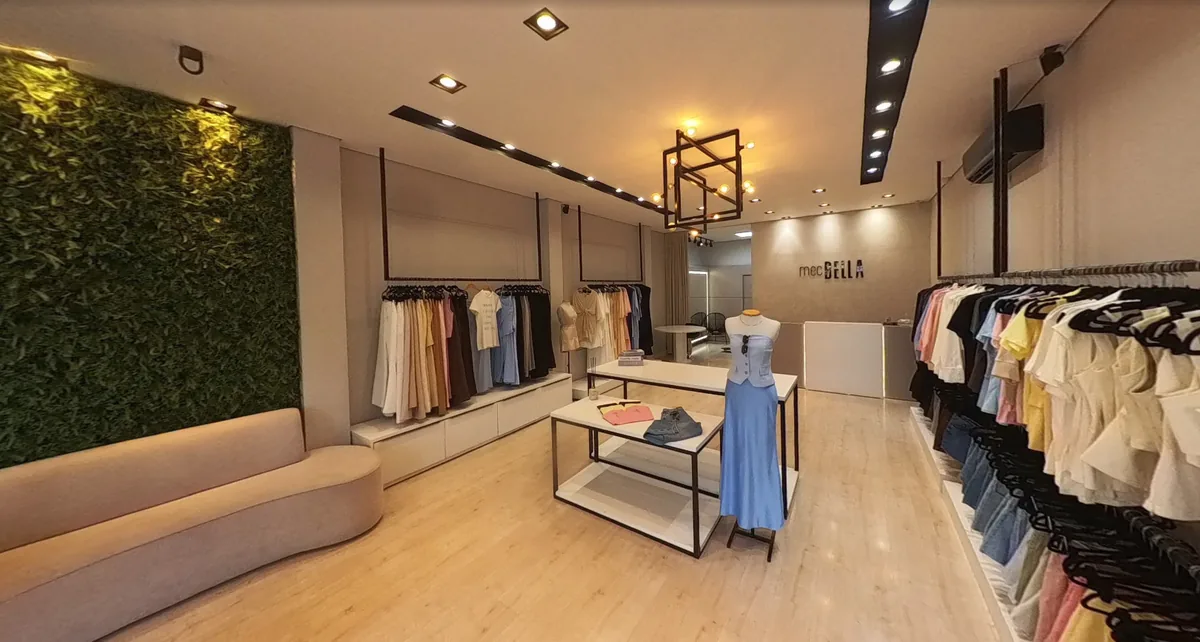
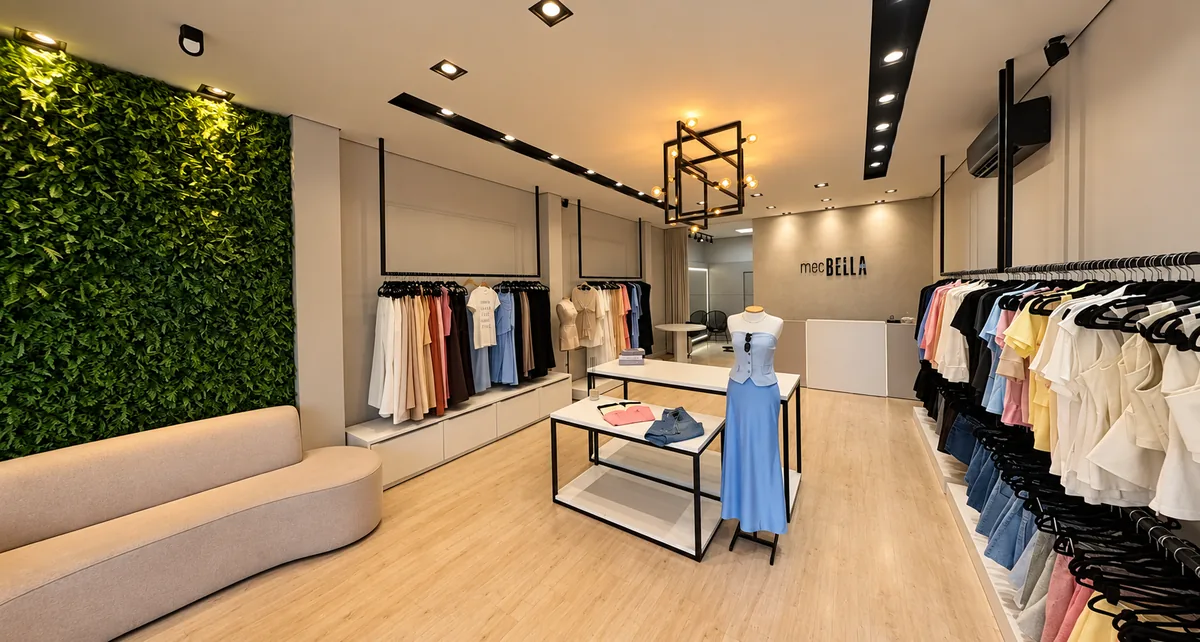
Panorâmica e arara nas versões editadas pelo cliente, em resolução maior

diff --git a/index.html b/index.html
@@ -183,8 +183,8 @@
         <article class="duo__item" data-reveal>
           <figure class="duo__figure">
             <picture>
-              <source type="image/webp" srcset="assets/img/arara-480.webp 480w, assets/img/arara-800.webp 800w, assets/img/arara-835.webp 835w" sizes="(min-width: 1100px) 460px, (min-width: 700px) 46vw, 92vw">
-              <img src="assets/img/arara-835.jpg" alt="Arara com camisa de linho cru, calça jeans, camisa azul-clara e bolsa de palha." width="835" height="557" loading="lazy" decoding="async">
+              <source type="image/webp" srcset="assets/img/arara-480.webp 480w, assets/img/arara-800.webp 800w, assets/img/arara-1200.webp 1200w" sizes="(min-width: 1100px) 460px, (min-width: 700px) 46vw, 92vw">
+              <img src="assets/img/arara-1214.jpg" alt="Arara com camisa de linho cru, calça jeans, camisa azul-clara, bolsa de palha e, embaixo, tops e saia em tons de amarelo e marinho." width="1214" height="1295" loading="lazy" decoding="async">
             </picture>
           </figure>
           <div class="duo__body">

diff --git a/assets/css/styles.css b/assets/css/styles.css
@@ -783,7 +783,7 @@ strong {
   }
 
   .duo__item:nth-child(2) .duo__figure img {
-    object-position: 50% 50%;
+    object-position: 50% 40%;
   }
 
   /* o segundo estilo desce um pouco, para o ritmo de revista */

diff --git a/tools/optimize-images.py b/tools/optimize-images.py
@@ -36,9 +36,10 @@ PHOTOS = {
     "blazer": ("Screenshot 2026-10-02 105840.png", (3, 3, 665, 894)),
     "cafe": ("Screenshot 2026-10-02 110055.png", (3, 3, 664, 889)),
     "copo": ("Screenshot 2026-10-02 110108.png", (3, 3, 665, 887)),
-    "loja": ("Screenshot 2026-10-02 122400.png", (3, 3, 1623, 870)),
-    # a arara veio com o texto do post na parte de baixo; fica só a parte de cima
-    "arara": ("Screenshot 2026-10-02 131604.png", (3, 3, 838, 560)),
+    # versões editadas pelo cliente (02/10/2026), em resolução maior e sem o
+    # texto do post; as capturas originais ficam guardadas, mas não são usadas
+    "loja": ("loja-editada.png", None),
+    "arara": ("arara-editada.png", None),
 }
 
 # Fotos de perfil: nome de saída -> arquivo em materiais-de-origem/avaliacoes

diff --git a/README.md b/README.md
@@ -25,7 +25,9 @@ estão prontas em `assets/img`.
 ```
 materiais-de-origem/
   logo/          mec bella logo.jpg (150 x 150 px, preto sobre branco)
-  fotos/         sete capturas do Instagram e uma panorâmica do interior (1626 x 873)
+  fotos/         sete capturas do Instagram, uma panorâmica do interior (1626 x 873) e duas
+                 versões editadas pelo cliente em resolução maior: loja-editada.png (1715 x 917)
+                 e arara-editada.png (1214 x 1295, sem o texto do post)
   avaliacoes/    fotos de perfil de quem avaliou (72 x 72 px)
 ```
 
@@ -141,8 +143,8 @@ materiais-de-origem/             arquivos do cliente (só na pasta local, fora d
 | --- | --- | --- | --- |
 | `Screenshot ... 104819.png` | Mulher fotografa o look no espelho: regata off-white e saia plissada marinho | 663 x 889 | hero e imagem de compartilhamento |
 | `Screenshot ... 104854.png` | Manequins com alfaiataria cinza e vestido de brilho | 659 x 888 | "Os estilos", Easy Chic |
-| `Screenshot ... 131604.png` | Arara com linho, jeans e camisa azul (texto do post por cima, embaixo) | recorte 835 x 557, só a parte sem texto | "Os estilos", Basic & Casual |
-| `Screenshot ... 122400.png` | Panorâmica do interior | 1620 x 867, reduzida a 1600 | "A loja", toda a largura |
+| `arara-editada.png` | Arara com linho, jeans, camisa azul, bolsa de palha e, embaixo, tops e saia (versão editada pelo cliente, sem texto; substitui a captura `131604`) | 1214 x 1295 | "Os estilos", Basic & Casual |
+| `loja-editada.png` | Panorâmica do interior (versão editada pelo cliente; substitui a captura `122400`) | 1715 x 917, reduzida a 1600 | "A loja", toda a largura |
 | `Screenshot ... 110055.png` | Mesa de café: bolo, salgados, suco, copos com a marca | 661 x 886 | "A loja" |
 | `Screenshot ... 110108.png` | Copo de café com o logo e saquinho de biscoito | 662 x 884 | "A loja" |
 | `Screenshot ... 104843.png` | Bolsas pretas e cinto sobre a mesa | 662 x 889 | "Acessórios" |
@@ -297,6 +299,7 @@ verificado se o número responde no WhatsApp.
 | --- | --- |
 | Versão inicial da página | todos |
 | Fotos de "Os estilos" limitadas a 460 px, dentro do container, para não ampliar | `styles.css`, `index.html` |
+| Cliente enviou a panorâmica e a arara em resolução maior, sem texto; as duas substituem as capturas | `tools/optimize-images.py`, `index.html`, `assets/img` |
 
 ## Créditos e licenças
 
